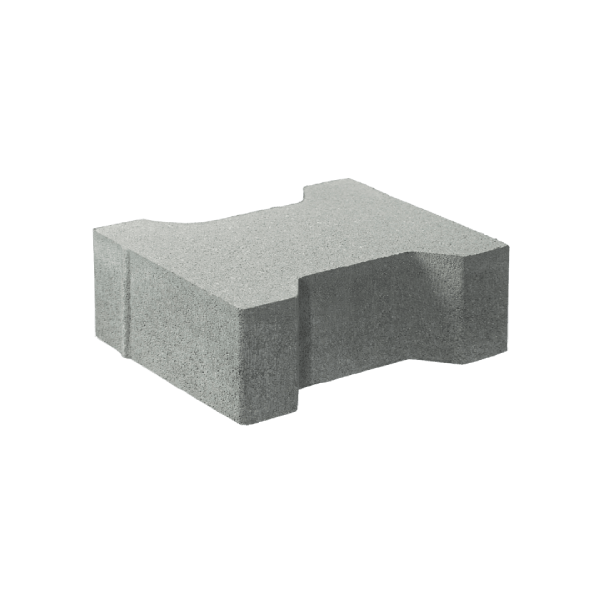
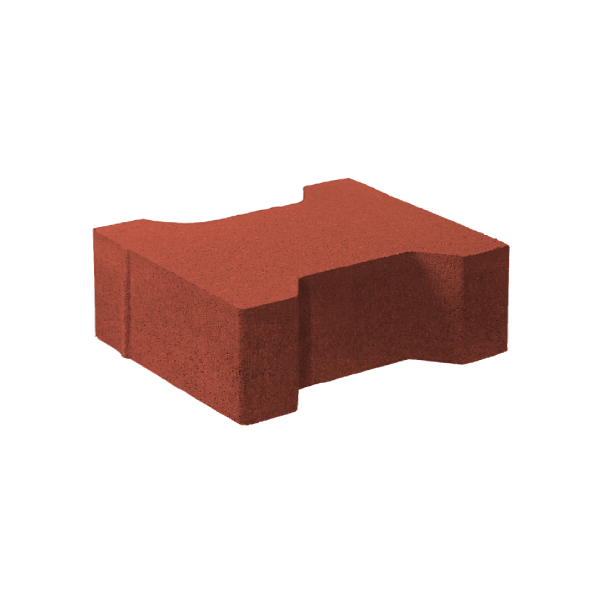
feat(seed): make the pavers visually distinct
Бехатон 8, Бехатон 10 and Хексагон 8D looked the same from above as
Бехатон 6 and Хексагон 6D, so they are dropped. Added Тротоарна плоча 40
(40×40 slab) and Паркинг елемент (grass paver), both from sofurban.com.
Бехатон 6 is now red, Холанд 6K anthracite and Холанд 6B a red/black
mix (photos recoloured to match), and Холанд 6P is laid in herringbone.

Nine pavers, each with its own drawn texture.

Changed region(s): [[0.15, 0.3, 0.87, 0.72]]

diff --git a/tests/NaturalStoneImpex.Api.Tests/DbSeederPaversTests.cs b/tests/NaturalStoneImpex.Api.Tests/DbSeederPaversTests.cs
@@ -24,8 +24,8 @@ public class DbSeederPaversTests : IDisposable
         var pavers = await check.Products.Include(p => p.Category)
             .Where(p => p.Category.Name == "Павета").ToListAsync();
 
-        Assert.Equal(10, pavers.Count);
-        Assert.Equal(10, pavers.Select(p => p.Name).Distinct().Count());
+        Assert.Equal(9, pavers.Count);
+        Assert.Equal(9, pavers.Select(p => p.Name).Distinct().Count());
         Assert.All(pavers, p =>
         {
             Assert.Equal(UnitType.Sqm, p.Unit);
@@ -52,8 +52,8 @@ public class DbSeederPaversTests : IDisposable
         }
 
         await using var check = Context();
-        Assert.Equal(10, await check.Products.CountAsync(p => p.Category.Name == "Павета"));
-        Assert.Equal(11, await check.Products.CountAsync()); // the full seed catalog is skipped: products exist
+        Assert.Equal(9, await check.Products.CountAsync(p => p.Category.Name == "Павета"));
+        Assert.Equal(10, await check.Products.CountAsync()); // the full seed catalog is skipped: products exist
     }
 
     public void Dispose()
